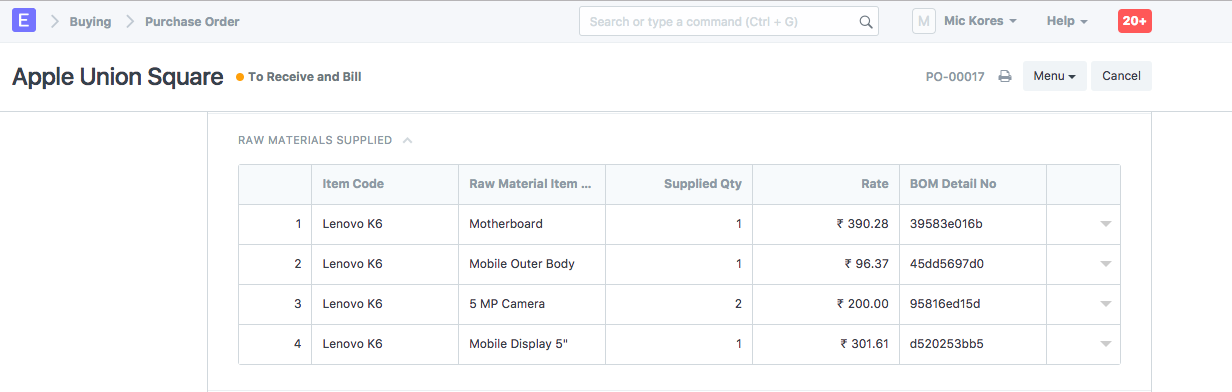
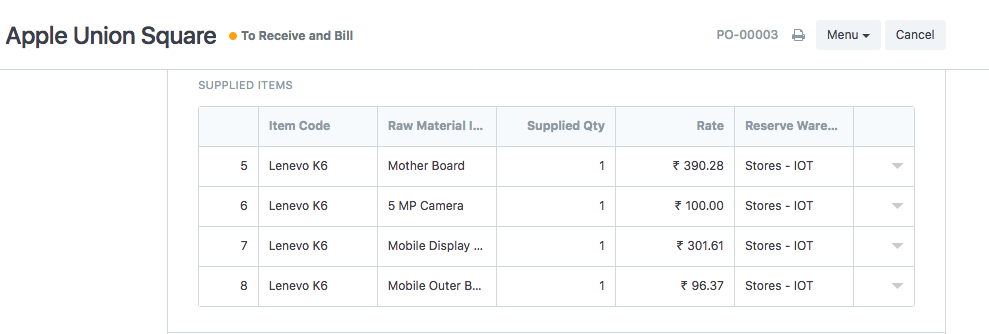
[fix] #12390 (#12391)

diff --git a/erpnext/docs/user/manual/en/manufacturing/subcontracting.md b/erpnext/docs/user/manual/en/manufacturing/subcontracting.md
@@ -27,9 +27,13 @@ other items which go into the making of pen, will be categorized as sub-items.
 
 <img class="screenshot" alt="Sub-Contracting" src="/docs/assets/img/manufacturing/subcontract2.png">
 
-__Step 2:__ Make a Purchase Order for the processed Item. When you “Save”, in the “Raw Materials Supplied”, all your un-processed Items will be updated based on your Bill of Materials.
+__Step 2:__ Make a Purchase Order for the processed Item. When you “Save”, in the “Raw Materials Supplied”, all your un-processed Items will be updated based on your Bill of Materials. You can also select the warehouse from which the material would be reserved for sub contracting.
 
 <img class="screenshot" alt="Sub-Contracting" src="/docs/assets/img/manufacturing/subcontract3.png">
+
+Once the PO is submitted, you can view the reserved quantity of the item from the item dashboard as well.
+
+<img class="screenshot" alt="Sub-Contracting" src="/docs/assets/img/manufacturing/subcontract3-reserved-material.png">
 
 __Step 3:__ Make a Stock Entry to deliver the raw material Items to your Supplier.
 
@@ -45,6 +49,10 @@ correct stock is maintained at the Supplier’s end.
 
 > Note 2: ERPNext will automatically add the raw material rate for your
 valuation purpose when you receive the finished Item in your stock.
+
+> Note 3: ERPNext will automatically default the Reserve Warehouse in the PO
+from the BOM. If not found in the BOM, it would default it from the default
+warehouse setup in the Item.
 
 ### Video Help
 
